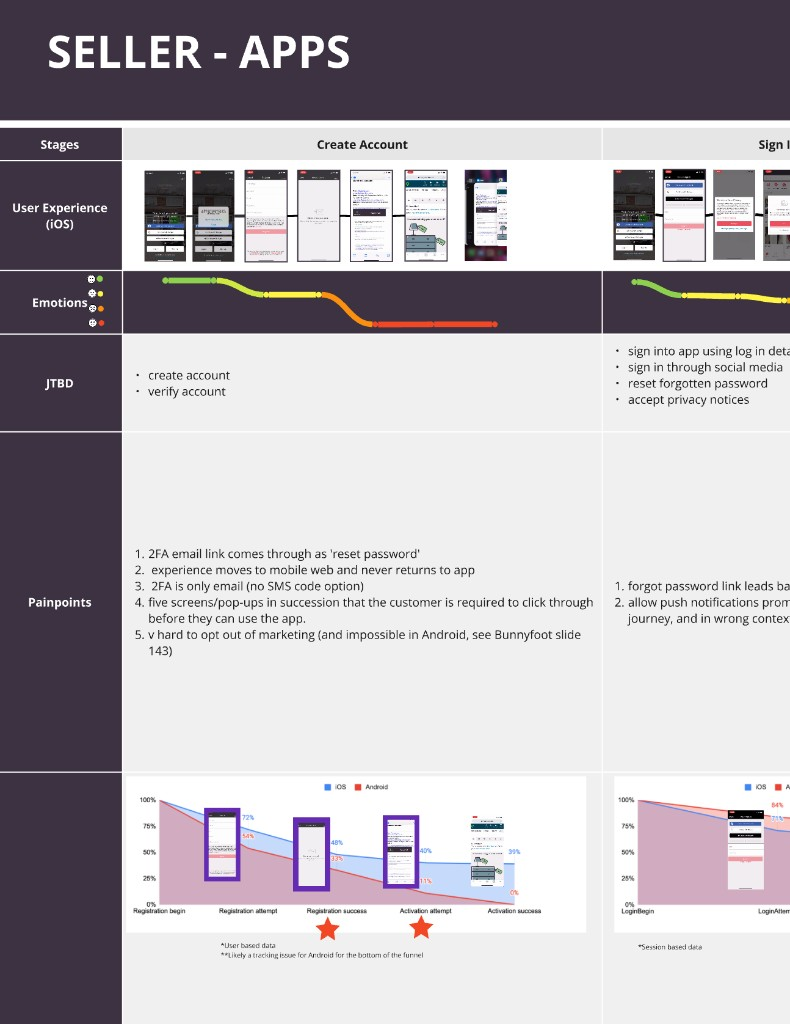
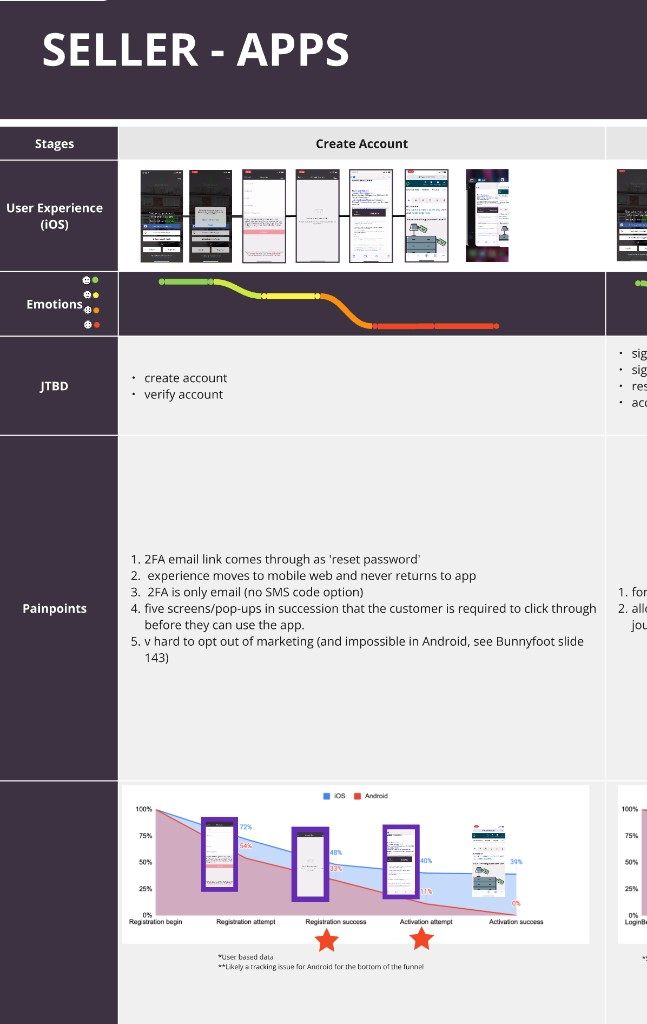
Update images and styles in MilestonesTimeline and SellerDoubleDiamond components: modify image references for clarity, enhance layout with new CSS rules, and introduce animated elements for improved visual engagement.

Changed region(s): [[0.0, 0.0312, 1.0, 1.0], [0.0309, 0.5625, 0.1236, 0.625]]

diff --git a/src/app/components/SellerDoubleDiamond.tsx b/src/app/components/SellerDoubleDiamond.tsx
@@ -59,12 +59,12 @@ const PHASES: Record<PhaseId, PhaseData> = {
 	discover: {
 		label: 'Discover',
 		title: 'Mapping the reality',
-		body: 'We mapped existing app and web listing flows to understand how they worked in production. This revealed undocumented logic, inconsistencies, and feature parity gaps across categories.',
+		body: 'We mapped app and web listing flows in production and uncovered undocumented logic and inconsistencies.',
 	},
 	define: {
 		label: 'Define',
-		title: 'Focusing on what matters',
-		body: 'We identified revenue-critical moments in ad creation and management and clarified where clarity, speed, and trust mattered most. Scope was narrowed to what would deliver measurable impact.',
+		title: 'Defining priorities',
+		body: 'Using a customer journey map, we identified friction points and focused on simplifying the most critical steps.',
 	},
 	develop: {
 		label: 'Develop',
@@ -257,44 +257,71 @@ export default function SellerDoubleDiamond() {
 				xmlns='http://www.w3.org/2000/svg'
 				aria-hidden='true'
 			>
-
-			{/* Filled diamonds — inset inside outline (half=117), behind the outlined ones */}
+			<defs>
+				{/* Spark glow: soft #B0F4AC halo around a bright white centre */}
+				<filter id='sparkGlow' x='-200%' y='-200%' width='500%' height='500%'>
+					<feGaussianBlur in='SourceGraphic' stdDeviation='7' result='blur' />
+					<feColorMatrix
+						in='blur'
+						type='matrix'
+						values='0 0 0 0 0.69  0 0 0 0 0.96  0 0 0 0 0.67  0 0 0 1.4 0'
+						result='coloredBlur'
+					/>
+					<feMerge>
+						<feMergeNode in='coloredBlur' />
+						<feMergeNode in='SourceGraphic' />
+					</feMerge>
+				</filter>
+			</defs>
+			<g className={styles.diamondsGroup}>
+			{/* Filled diamonds — connection at (400,520), between Discover/Define and Develop/Deliver */}
 			<polygon
-				points='400,125 517,242 400,359 283,242'
+				points='400,265 517,382 400,499 283,382'
 				className={styles.diamondFilled}
 				aria-hidden='true'
 			/>
 			<polygon
-				points='400,401 517,518 400,635 283,518'
+				points='400,541 517,658 400,775 283,658'
 				className={styles.diamondFilled}
 				aria-hidden='true'
 			/>
 
-			{/* Diamond 1 — outlined, 5% smaller (half=138), connected at (400,380) */}
+			{/* Diamond 1 — outlined, connection at (400,520) */}
 			<polygon
-				points='400,104 538,242 400,380 262,242'
+				points='400,244 538,382 400,520 262,382'
 				className={`${styles.diamond} ${topDiamondHighlighted ? styles.diamondHighlighted : ''}`}
 				onMouseEnter={() => setHoveredDiamond('top')}
 				onMouseLeave={() => setHoveredDiamond(null)}
 			/>
-			{/* Horizontal divider — diamond 1 midpoint */}
 			<line
-				x1='262' y1='242' x2='538' y2='242'
+				x1='262' y1='382' x2='538' y2='382'
 				className={styles.diamondDivider}
 			/>
 
-			{/* Diamond 2 — outlined, 5% smaller (half=138), connected at (400,380) */}
+			{/* Diamond 2 — outlined, connection at (400,520) */}
 			<polygon
-				points='400,380 538,518 400,656 262,518'
+				points='400,520 538,658 400,796 262,658'
 				className={`${styles.diamond} ${bottomDiamondHighlighted ? styles.diamondHighlighted : ''}`}
 				onMouseEnter={() => setHoveredDiamond('bottom')}
 				onMouseLeave={() => setHoveredDiamond(null)}
 			/>
-			{/* Horizontal divider — diamond 2 midpoint */}
 			<line
-				x1='262' y1='518' x2='538' y2='518'
+				x1='262' y1='658' x2='538' y2='658'
 				className={styles.diamondDivider}
 			/>
+
+			{/* Animated spark — travels the full diamond outline */}
+			<g className={styles.sparkGroup} aria-hidden='true' filter='url(#sparkGlow)'>
+				<circle r='3' className={styles.spark}>
+					<animateMotion
+						dur='18s'
+						repeatCount='indefinite'
+						calcMode='linear'
+						path='M 400,244 L 538,382 L 400,520 L 538,658 L 400,796 L 262,658 L 400,520 L 262,382 Z'
+					/>
+				</circle>
+			</g>
+			</g>
 			</svg>
 				</div>
 
@@ -309,9 +336,11 @@ export default function SellerDoubleDiamond() {
 							onMouseLeave={() => setHoveredPhase(null)}
 						>
 							<div className={`${styles.phaseInner} ${phaseInnerClass[id]}`}>
-								<span className={styles.phaseLabel}>{phase.label}</span>
-								<h3 className={styles.phaseTitle}>{phase.title}</h3>
-								<p className={styles.phaseBody}>{phase.body}</p>
+								<div className={styles.phaseText}>
+									<span className={styles.phaseLabel}>{phase.label}</span>
+									<h3 className={styles.phaseTitle}>{phase.title}</h3>
+									<p className={styles.phaseBody}>{phase.body}</p>
+								</div>
 								{id === 'discover' && (
 									<button
 										type="button"
@@ -328,7 +357,7 @@ export default function SellerDoubleDiamond() {
 								)}
 								{id === 'define' && (
 									<img
-										src="/cjm-sellers.png"
+										src="/cjm-sellers.png?v=2"
 										alt="Seller apps customer journey map: Create Account and Sign In flows, emotions, JTBD, pain points and conversion funnels"
 										className={styles.phaseImage}
 									/>
@@ -353,9 +382,11 @@ export default function SellerDoubleDiamond() {
 					const phase = PHASES[id];
 					return (
 						<div key={`m-${id}`} className={styles.mobilePhase}>
-							<span className={styles.phaseLabel}>{phase.label}</span>
-							<h3 className={styles.phaseTitle}>{phase.title}</h3>
-							<p className={styles.phaseBody}>{phase.body}</p>
+							<div className={styles.phaseText}>
+								<span className={styles.phaseLabel}>{phase.label}</span>
+								<h3 className={styles.phaseTitle}>{phase.title}</h3>
+								<p className={styles.phaseBody}>{phase.body}</p>
+							</div>
 							{id === 'discover' && (
 								<button
 									type="button"
@@ -372,7 +403,7 @@ export default function SellerDoubleDiamond() {
 							)}
 							{id === 'define' && (
 								<img
-									src="/cjm-sellers.png"
+									src="/cjm-sellers.png?v=2"
 									alt="Seller apps customer journey map: Create Account and Sign In flows, emotions, JTBD, pain points and conversion funnels"
 									className={styles.phaseImage}
 								/>

diff --git a/src/app/components/MilestonesTimeline.tsx b/src/app/components/MilestonesTimeline.tsx
@@ -368,15 +368,15 @@ export default function MilestonesTimeline({
 														onClick={() =>
 															setLightbox({
 																kind: 'image',
-																src: '/legacy-app.png',
-																alt: 'Legacy Gumtree app screens showing mattress and car listings',
+																src: '/legacy-app.png?v=2',
+																alt: 'App audit: Create Account and Post an Ad user flows with emotion charts',
 															})
 														}
 														aria-label="Enlarge image"
 													>
 														<img
-															src="/legacy-app.png"
-															alt="Legacy Gumtree app screens showing mattress and car listings"
+															src="/legacy-app.png?v=2"
+															alt="App audit: Create Account and Post an Ad user flows with emotion charts"
 															className={styles.foundationImage}
 														/>
 													</button>
@@ -694,13 +694,35 @@ export default function MilestonesTimeline({
 											<h3 className={styles.milestoneLabel}>{milestone.label}</h3>
 										</div>
 									</div>
-									<div
-										className={`${styles.colRight} ${!isRight || !hasContent ? styles.colEmpty : ''}`}
-									>
-										{isRight && hasContent && (
+								<div
+									className={`${styles.colRight} ${!isRight || !hasContent ? styles.colEmpty : ''}`}
+								>
+									{isRight && hasContent && (
+										<div className={milestone.id === 'webview-shift' ? styles.milestoneWithMedia : undefined}>
 											<ContentBlock milestone={milestone} align='left' />
-										)}
-									</div>
+											{milestone.id === 'webview-shift' && (
+												<button
+													type="button"
+													className={styles.timelineImageButton}
+													onClick={() =>
+														setLightbox({
+															kind: 'image',
+															src: '/promote-ad.png?v=3',
+															alt: 'Promote ad flow: My Gumtree, Promote ad selection, Checkout and Congratulations screens',
+														})
+													}
+													aria-label="Enlarge image"
+												>
+													<img
+														src="/promote-ad.png?v=3"
+														alt="Promote ad flow: My Gumtree, Promote ad selection, Checkout and Congratulations screens"
+														className={styles.timelineImage}
+													/>
+												</button>
+											)}
+										</div>
+									)}
+								</div>
 									{milestone.annotation && (
 										<div
 											className={styles.annotation}

diff --git a/src/app/components/SellerDoubleDiamond.module.css b/src/app/components/SellerDoubleDiamond.module.css
@@ -86,6 +86,35 @@
 	opacity: 1;
 }
 
+/* ── Animated spark ──────────────────────────────────────────────────────── */
+.sparkGroup {
+	opacity: 0;
+	transition: opacity 0.5s ease 1.8s;
+}
+
+.wrapper.revealed .sparkGroup {
+	opacity: 1;
+}
+
+.spark {
+	fill: #ffffff;
+	stroke: none;
+}
+
+@media (prefers-reduced-motion: reduce) {
+	.sparkGroup {
+		display: none;
+	}
+}
+
+/* Desktop: scale 10% and translate so connection point lands on the horizontal divider.
+   Max safe translate is 151px before bottom vertex exits the 920-unit viewBox. */
+@media (min-width: 1024px) {
+	.diamondsGroup {
+		transform-origin: 400px 520px;
+		transform: translate(0, 151px) scale(0.9);
+	}
+}
 
 /* ── Connector lines ─────────────────────────────────────────────────────── */
 .connector {
@@ -121,6 +150,7 @@
 .deliverConnector {
 	transition-delay: 0.63s;
 }
+
 
 /* ── Phase blocks (absolutely positioned on desktop) ─────────────────────── */
 .phase {
@@ -185,6 +215,18 @@
 }
 .deliverInner {
 	transition-delay: 1.21s;
+}
+
+/* Phase text block — min-height on Discover/Define so images align at top */
+.phaseText {
+	display: block;
+}
+
+@media (min-width: 1024px) {
+	.discoverPhase .phaseText,
+	.definePhase .phaseText {
+		min-height: 152px;
+	}
 }
 
 /* ── Phase hover effects ─────────────────────────────────────────────────── */
@@ -263,11 +305,12 @@
 		width: 100%;
 		max-width: 360px;
 	}
-	/* Define phase: same width as Deliver visual so right column is consistent and doesn’t overflow */
+	/* Define phase: crop height to match user flow image aspect ratio (694:1024), trim from bottom */
 	.definePhase .phaseImage {
 		max-width: 240px;
-		max-height: 65vh;
-		object-fit: contain;
+		aspect-ratio: 694 / 1024;
+		object-fit: cover;
+		object-position: top;
 	}
 }
 

diff --git a/src/app/components/MilestonesTimeline.module.css b/src/app/components/MilestonesTimeline.module.css
@@ -85,7 +85,8 @@
 	z-index: 1;
 	/* Extra bottom padding reserves space for absolutely-positioned phase content
 	   (phone mockups, images) that overflows the aspect-ratio container */
-	padding: 8px 0 560px;
+	padding: 0 0 560px;
+	margin-top: -24px;
 }
 
 /* ── Foundation: two blocks (text + image, text + video), left-aligned ─────── */
@@ -260,6 +261,8 @@
 
 .lightboxImage {
 	animation: lightboxImageIn 0.28s ease-out 0.04s both;
+	/* Sharper when scaled on high-DPI / retina */
+	image-rendering: -webkit-optimize-contrast;
 }
 
 .lightboxVideo {
@@ -517,6 +520,13 @@
 	font-size: 13px;
 	color: #94a3b8;
 	font-style: italic;
+}
+
+/* ── Desktop: Seller Journeys title closer to Discover/Define ─────────────── */
+@media (min-width: 901px) {
+	.rowSellerJourneys {
+		min-height: 72px;
+	}
 }
 
 /* ── Tablet (641–900px) ──────────────────────────────────────────────────── */
